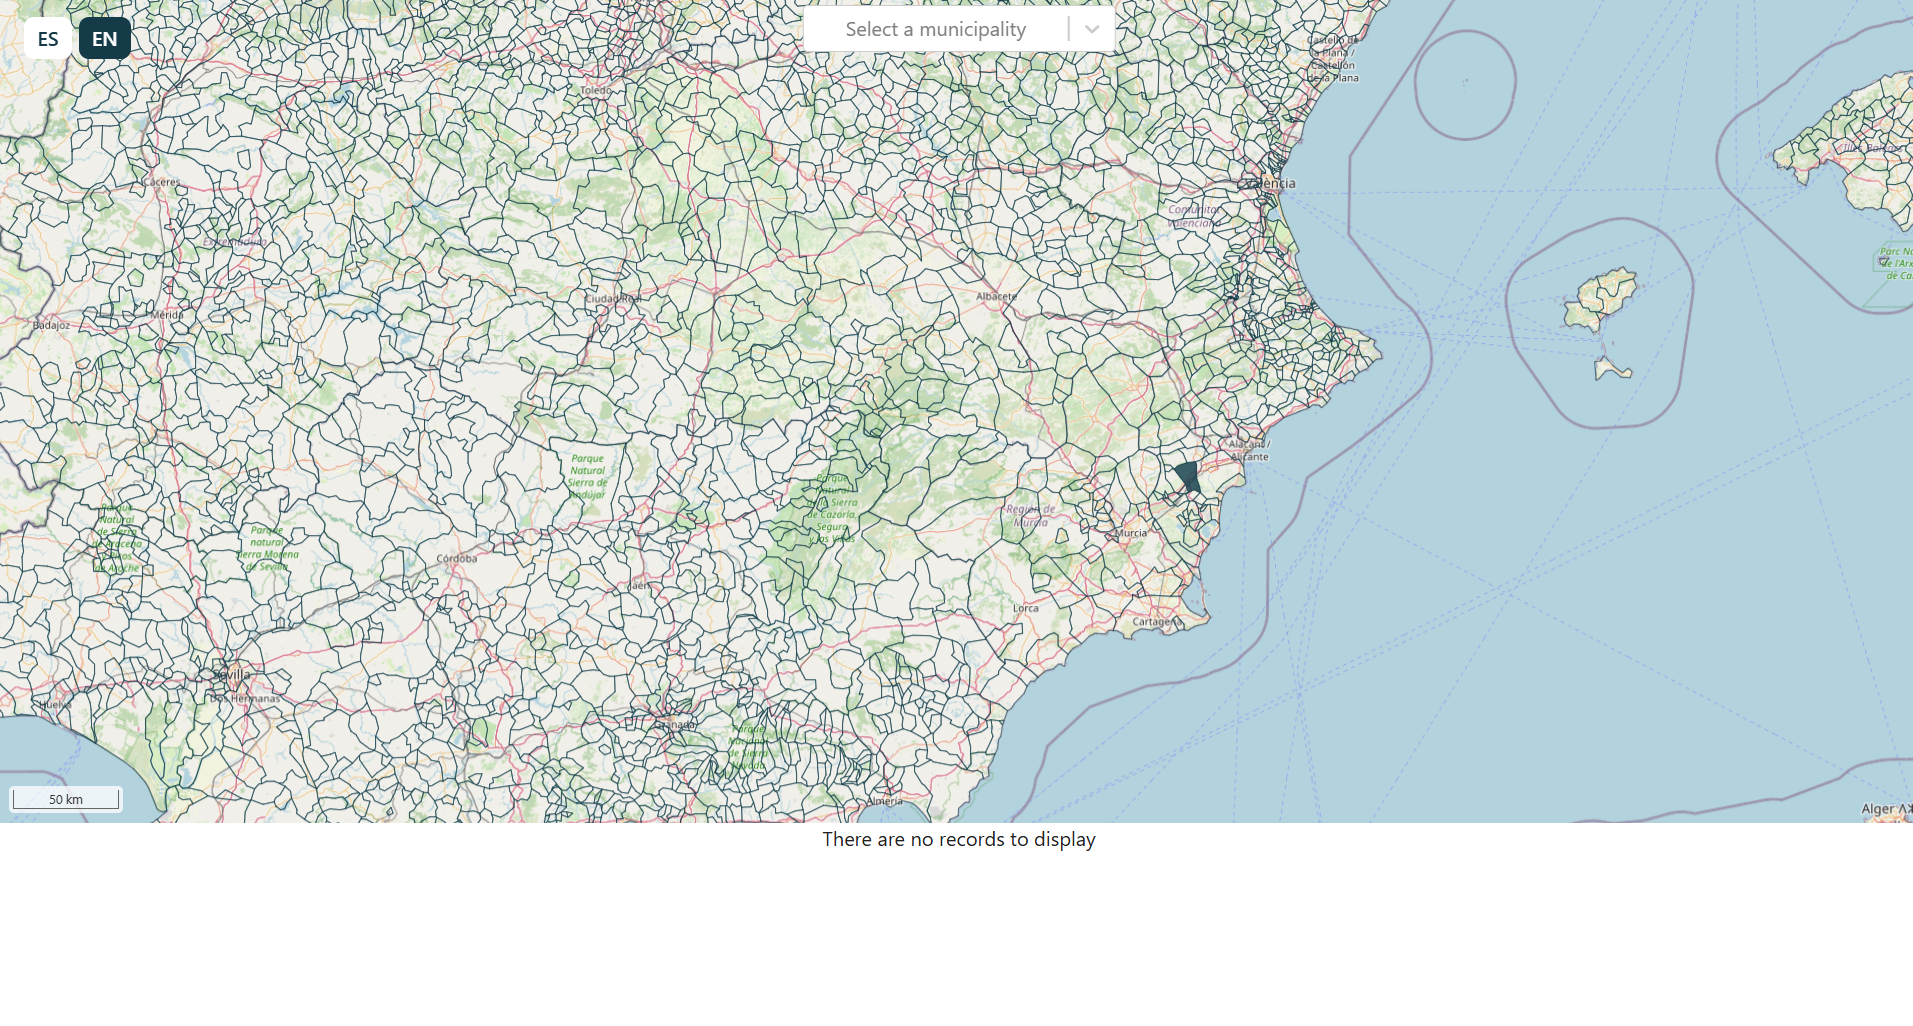
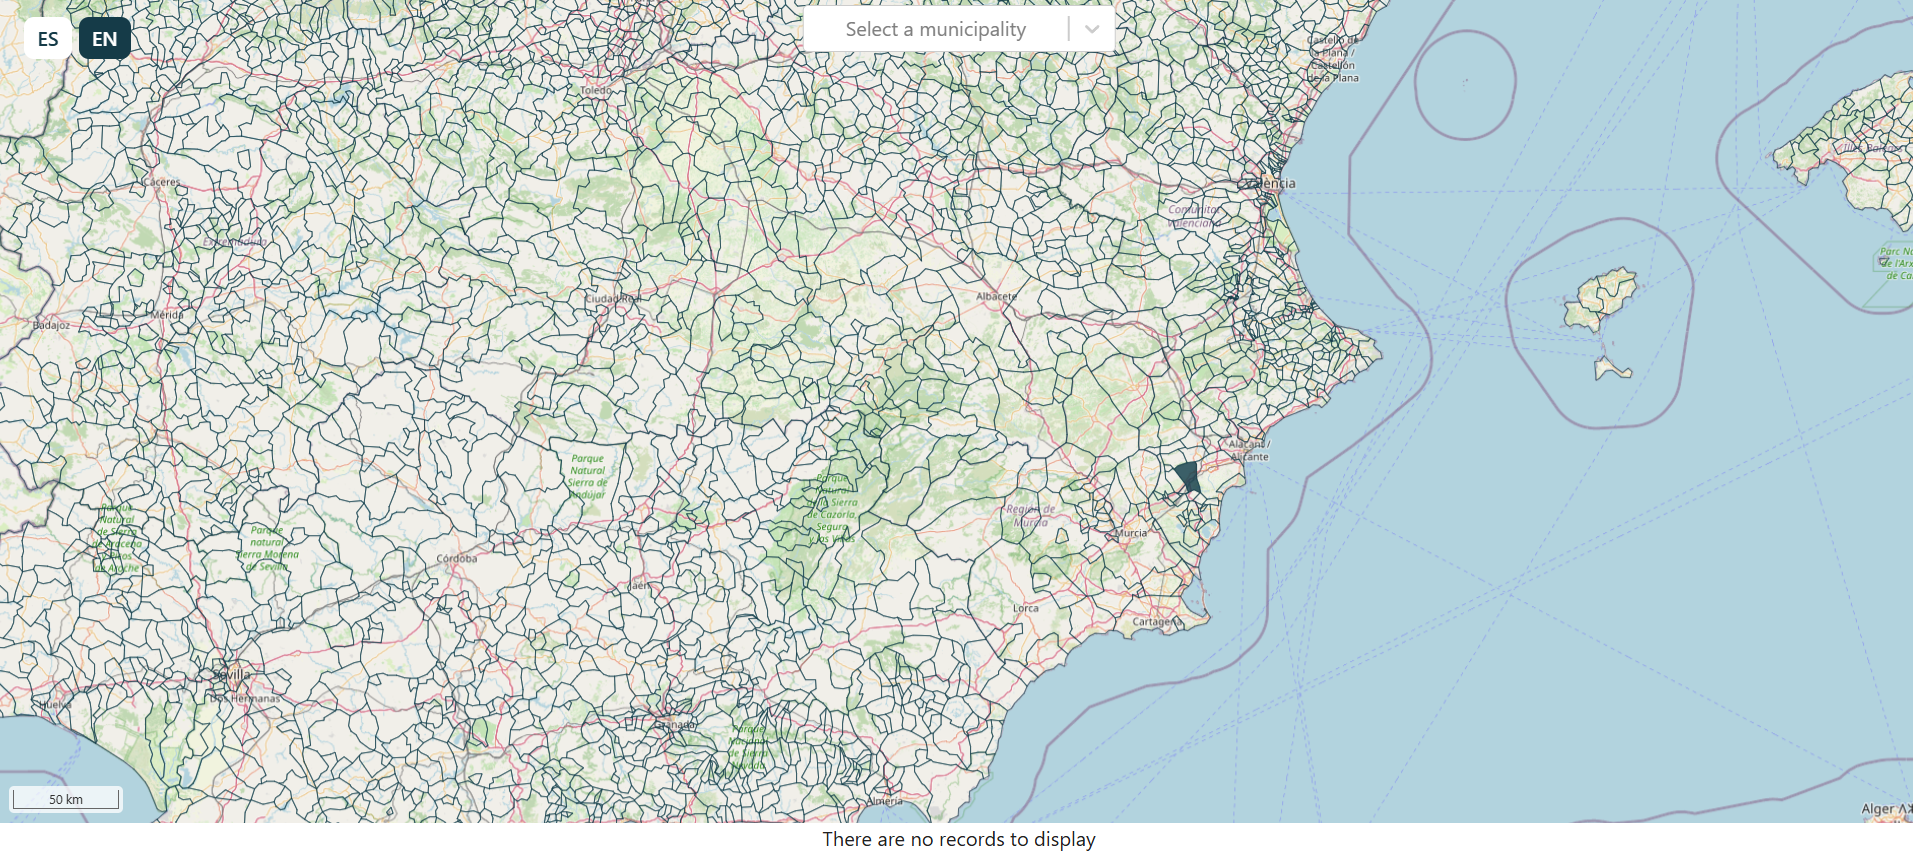
Updates report refine LEC documentation regarding the report and reduce white space of main view image

diff --git a/docs/tools-and-services/lec.md b/docs/tools-and-services/lec.md
@@ -116,9 +116,11 @@ The tool allows users to generate a report detailing the characteristics of the 
 
 To generate the report and save it to their computer, users can click the "Generate report" button in the top-right corner of the screen. The report will be generated and automatically downloaded within a few seconds.
 
+The report can be generated in two ways: for the entire municipality or for a subselection of buildings. Users can manage this through the controls detailed abeve. If a filter or selection is applied, the report will include only those specific buildings; otherwise, the re`prt for the complete municipality will be provided.
+
 !!! info "About the report generation"
 
-    This feature is still in its early stages, so the generated report may not be fully complete.
+    This feature generates the content of the report dynamically, so it may take some time to process and download the file. Please be patient.
 
 ### Saving or Printing the Current View
 
